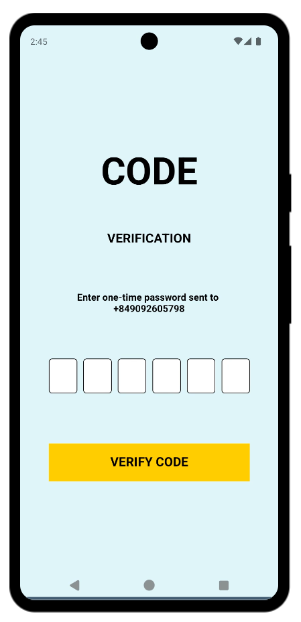
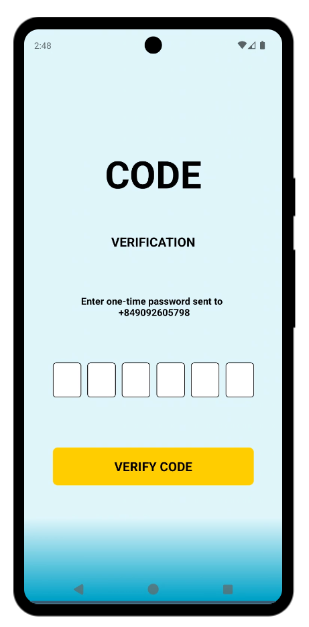
feat: update Bài 1c

diff --git a/Tuan03/app/(tabs)/bai1c.tsx b/Tuan03/app/(tabs)/bai1c.tsx
@@ -6,6 +6,7 @@ import {
   TouchableOpacity,
   StyleSheet,
 } from "react-native";
+import { LinearGradient } from "expo-linear-gradient";
 
 export default function OTPVerification() {
   const [otp, setOtp] = useState(["", "", "", "", "", ""]);
@@ -18,12 +19,15 @@ export default function OTPVerification() {
   };
 
   return (
-    <View style={styles.container}>
+    <LinearGradient
+      colors={["#E0F7FA", "#00ACC1"]}
+      style={styles.container}
+      locations={[0.85, 1]}
+    >
       <Text style={styles.title}>CODE</Text>
       <Text style={styles.subtitle}>VERIFICATION</Text>
       <Text style={styles.info}>
-        Enter one-time password sent to {"\n"}
-        +849092605798
+        Enter one-time password sent to {"\n"} +849092605798
       </Text>
 
       {/* OTP Input */}
@@ -46,7 +50,7 @@ export default function OTPVerification() {
           <Text style={styles.buttonText}>VERIFY CODE</Text>
         </TouchableOpacity>
       </View>
-    </View>
+    </LinearGradient>
   );
 }
 
@@ -55,7 +59,6 @@ const styles = StyleSheet.create({
     flex: 1,
     justifyContent: "center",
     alignItems: "center",
-    backgroundColor: "#E0F7FA",
     padding: 50,
   },
   title: {
@@ -97,8 +100,8 @@ const styles = StyleSheet.create({
     backgroundColor: "#FFD600",
     width: 320,
     height: 60,
-    paddingVertical: 15,
-    paddingHorizontal: 40,
+    justifyContent: "center",
+    borderRadius: 8,
   },
   buttonText: {
     textAlign: "center",
